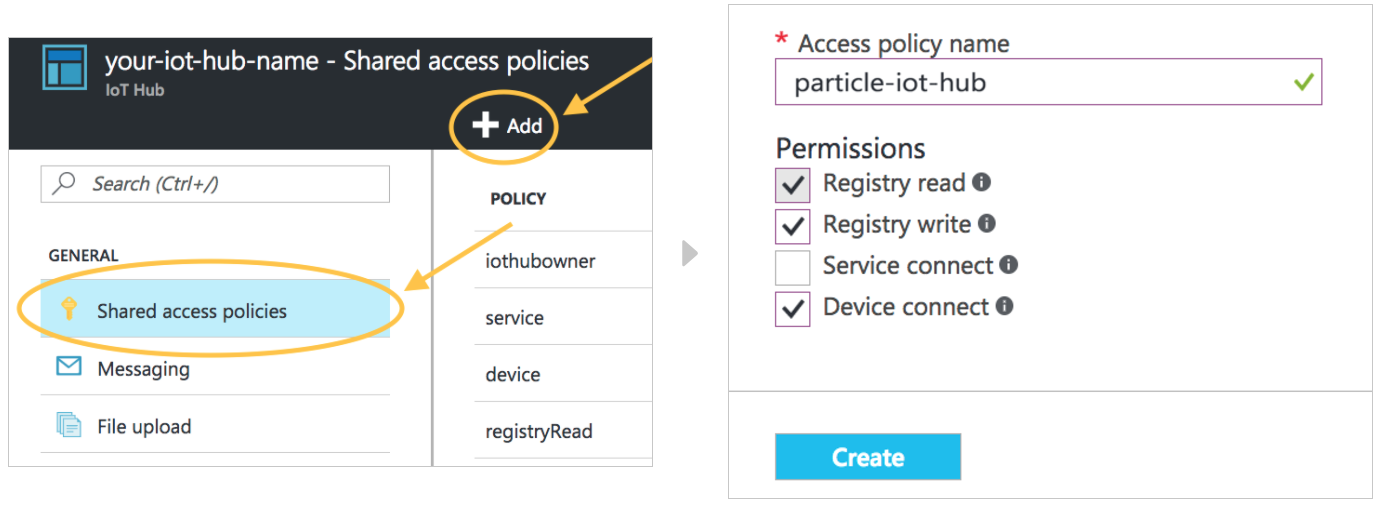
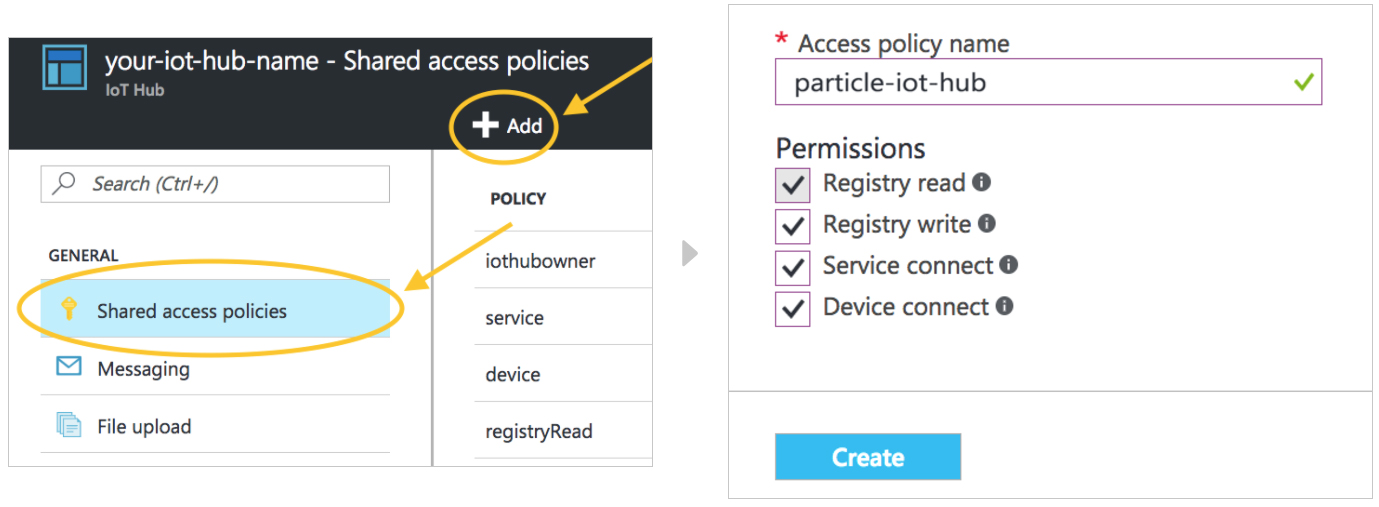
Add docs on device name syncing

diff --git a/src/content/tutorials/integrations/azure-iot-hub.md b/src/content/tutorials/integrations/azure-iot-hub.md
@@ -126,6 +126,21 @@ For a full description of authentication and security on Azure IoT Hub,
 please visit the <a
 href="https://docs.microsoft.com/en-us/azure/iot-hub/iot-hub-devguide-security" target="_blank">Developer guide on security</a>.
 
+### Device Twin
+
+The device twin is a virtual representation of a device's
+state in IoT Hub, stored as JSON. **Particle will use the twin in IoT Hub to
+sync a device's name in the Particle cloud with Azure**. Device name syncing happens once,
+at the time of creation in the IoT Hub device registry. If no name exists for
+the device at this time, this step will be skipped. Check out the section on
+[confirming date reaches Azure](#confirming-the-data-reaches-azure-iot-hub) for details
+on how to access the name from the device twin once it's synced.
+
+**Note:** Device name syncing with IoT Hub requires that you provide a
+shared access policy to Particle that has the "service connect"
+permission enabled when creating the integration.
+
+
 ## Preconfiguration in Azure IoT Hub
 
 You will need to do some setup in Azure IoT Hub before your integration
@@ -196,7 +211,12 @@ You will need to provide Particle with a shared access policy to allow the Parti
 
 #### Create the new policy
 
-Once your IoT Hub has been successfully created, click on its icon from your Azure portal dashboard. Then, click <strong>Shared access policies</strong> &gt; <strong>+ Add</strong> from the IoT Hub blade. Give your policy a name, and ensure that you only give your new policy <strong>registry read, registry write, and device connect permissions</strong> as shown below:
+Once your IoT Hub has been successfully created, click on its icon from
+your Azure portal dashboard. Then, click <strong>Shared access
+policies</strong> &gt; <strong>+ Add</strong> from the IoT Hub blade.
+Give your policy a name, and ensure that you give  your new policy
+<strong>registry read, registry write, service connect, and device
+connect permissions</strong> (check all the boxes) as shown below:
 
 <img src="/assets/images/azure-iot-hub/create-shared-policy.png"
 alt="Create shared IoT Hub policy"/>
@@ -365,6 +385,24 @@ registry:
 target="_blank" style="max-width:100%;"/>
 
 Yay! You are successfully sending data from Particle devices to your IoT Hub.
+
+If you'd like to get the device name from IoT Hub that was synced from
+Particle, you can run the following command:
+
+```bash
+iothub-explorer get-twin <device-id>
+```
+
+and you should see the `deviceName` attribute in the output:
+
+```bash
+...
+properties:
+  desired:
+    deviceName: <device-name>
+		...
+deviceId: <device-id>
+```
 
 ## Example Use Cases
 
